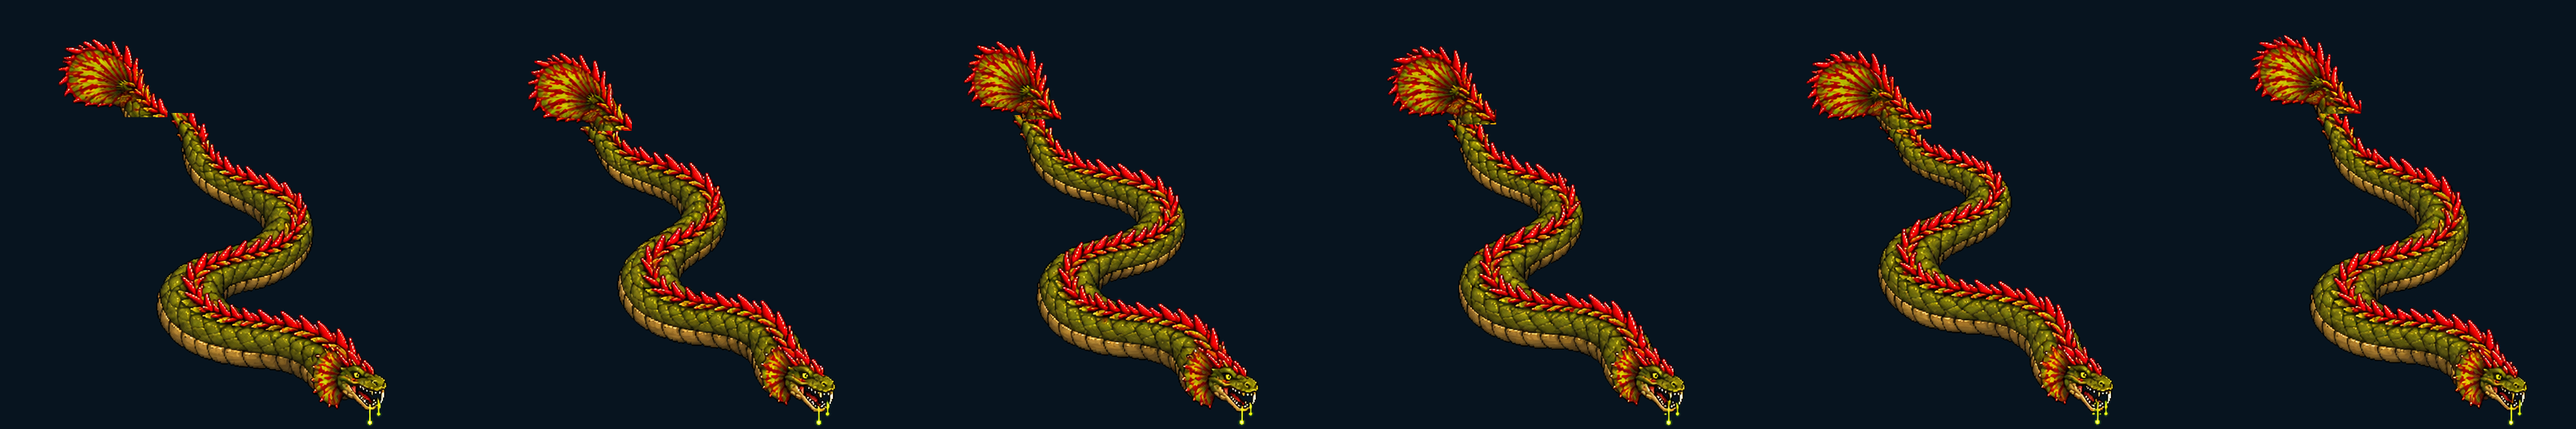
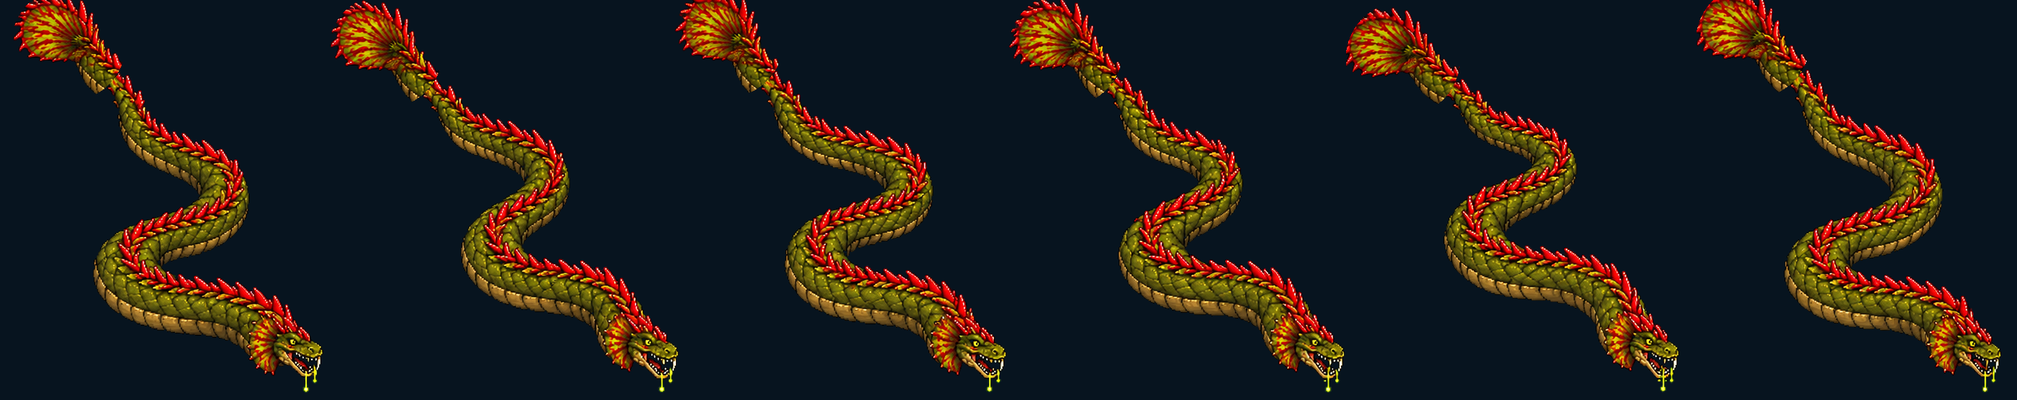
Art: the Hooded Serpent slither composite redone: each tail fan grafted onto the end of its own frame's tail (owner: the first was misplaced)
Claude-Session: https://claude.ai/code/session_01NtmEZhP1uA8k4DLQ7BYfMz

diff --git a/tools/art/compose_hooded_serpent_slither.py b/tools/art/compose_hooded_serpent_slither.py
@@ -1,53 +1,77 @@
-# Builds art/redraws/hooded_serpent_slither_se_composed.png: the coiling slither (hooded_serpent_slither_coil_chatgpt.png) with the tail fan from the other try (hooded_serpent_slither_fan_chatgpt.png) grafted on each frame's tail.
-#   python3 tools/art/compose_hooded_serpent_slither.py [fan_rows 110] [join 30] [out]
+# Builds art/redraws/hooded_serpent_slither_se_composed.png: the coiling slither (hooded_serpent_slither_coil_chatgpt.png,
+# the better body motion) with the TAIL FAN taken from the other try (hooded_serpent_slither_fan_chatgpt.png) and grafted
+# onto the very end of each frame's tail (the owner, 2026-10-29: the first composite placed the fans too far left).
+# Per frame: the fan = the fan frame's pixels within FAN_R of the fan's yellow centre; its joint = where the tail leaves
+# the fan (the body pixels just outside FAN_R); the coil frame's tail tip spike (within CUT of its topmost pixel) is cut
+# off and the fan is placed so its joint lands on the coil tail's end (the body just below the cut).
+#   python3 tools/art/compose_hooded_serpent_slither.py [out.png] [preview.png]
 import sys
 from PIL import Image
 import numpy as np
 from scipy import ndimage
-R='art/redraws/'
+R = 'art/redraws/'
+FAN_R = 80      # px (sheet): the fan's radius round its yellow centre
+CUT = 34        # px: the coil tail's plain tip cut off before the fan goes on
+
+
 def comps(f):
-    im=np.array(Image.open(R+f).convert('RGB')).astype(float)
-    bg=im[5,5]; d=np.sqrt(((im-bg)**2).sum(-1)); m=ndimage.binary_closing(d>40,iterations=2)
-    lab,n=ndimage.label(m); out=[]
-    for i,s in enumerate(ndimage.find_objects(lab)):
-        if (lab[s]==i+1).sum()>3000:
-            mk=(lab==i+1)
-            mk=ndimage.binary_dilation(mk,iterations=2)
-            out.append((s[1].start,s,mk))
-    out.sort(key=lambda t:t[0])
-    return im,bg,out
-fim,fbg,fc=comps('hooded_serpent_slither_fan_chatgpt.png')
-cim,cbg,cc=comps('hooded_serpent_slither_coil_chatgpt.png')
-FAN_H=int(sys.argv[1]) if len(sys.argv)>1 else 110
-JOIN=int(sys.argv[2]) if len(sys.argv)>2 else 30
-W,H=600,600
-sheet=Image.new('RGB',(W*6,H),tuple(int(v) for v in cbg))
+    im = np.array(Image.open(R + f).convert('RGB')).astype(float)
+    bg = im[5, 5]
+    d = np.sqrt(((im - bg) ** 2).sum(-1))
+    m = ndimage.binary_closing(d > 40, iterations=2)
+    lab, n = ndimage.label(m)
+    out = []
+    for i, s in enumerate(ndimage.find_objects(lab)):
+        if (lab[s] == i + 1).sum() > 3000:
+            out.append((s[1].start, ndimage.binary_dilation(lab == i + 1, iterations=1)))
+    out.sort(key=lambda t: t[0])
+    return im, bg, [o[1] for o in out]
+
+
+fim, fbg, fcs = comps('hooded_serpent_slither_fan_chatgpt.png')
+cim, cbg, ccs = comps('hooded_serpent_slither_coil_chatgpt.png')
+H, W = cim.shape[:2]
+yy, xx = np.mgrid[0:H, 0:W]
+CW = 470
+sheet = Image.new('RGB', (CW * 6, 560), tuple(int(v) for v in cbg))
 for i in range(6):
-    # the fan: the fan frame's top FAN_H rows of its own component
-    _,s,mk=fc[i]; y0=s[0].start
-    fan=np.zeros((FAN_H,fim.shape[1],4),np.uint8)
-    reg=mk[y0:y0+FAN_H]
-    sl,sn=ndimage.label(reg)
-    if sn>1:
-        sizes=ndimage.sum(reg,sl,range(1,sn+1)); reg=(sl==(int(np.argmax(sizes))+1))
-    fan[...,:3]=fim[y0:y0+FAN_H].astype(np.uint8); fan[...,3]=reg*255
-    ys,xs=np.nonzero(reg[-JOIN:]); fx=int(np.median(xs))   # where the fan's stalk leaves it (bottom rows)
-    # (only the fan itself: nothing far to the right of the stalk, where the body's own spikes start)
-    reg=reg.copy(); reg[:, fx+45:]=False
-    fan[...,3]=reg*255
-    xa,xb=xs.min(),xs.max()
-    fanimg=Image.fromarray(fan,'RGBA').crop((max(0,fx-200),0,fx+200,FAN_H))
-    # the coil frame, its tail tip: the body's top JOIN rows
-    _,t,cm=cc[i]; ty=t[0].start
-    frame=np.zeros(cim.shape[:2]+(4,),np.uint8); frame[...,:3]=cim.astype(np.uint8); frame[...,3]=cm*255
-    tip=cm[ty+JOIN:ty+JOIN+12]; tys,txs=np.nonzero(tip); tx=int(np.median(txs))
-    frame[:ty+JOIN, :, 3]=np.where(np.abs(np.arange(frame.shape[1])-tx)<60, 0, frame[:ty+JOIN,:,3])   # cut the plain spike
-    x0,x1=t[1].start,t[1].stop
-    fr=Image.fromarray(frame,'RGBA').crop((x0-60,ty-FAN_H,x1+20,t[0].stop+5))
-    out=Image.new('RGBA',(W,H),(0,0,0,0))
-    ox=(W-fr.width)//2+60; out.alpha_composite(fr,(ox,H-fr.height))
-    # place the fan so its stalk meets the cut tail
-    px=ox+(tx-(x0-60))-200; py=H-fr.height+FAN_H+JOIN-FAN_H+6
-    out.alpha_composite(fanimg,(px,py))
-    sheet.paste(out,(i*W,0),out)
-sheet.save(sys.argv[3] if len(sys.argv)>3 else R+'hooded_serpent_slither_se_composed.png')
+    fm, cm = fcs[i], ccs[i]
+    # the fan: its yellow-green membrane's centre in the top part of the fan frame's body
+    ys, xs = np.nonzero(fm)
+    top = ys.min()
+    band = fm & (yy < top + 140)
+    yel = band & (fim[..., 0] > 140) & (fim[..., 1] > 120) & (fim[..., 2] < 90)
+    cy, cx = np.argwhere(yel).mean(0)
+    dist = np.sqrt((yy - cy) ** 2 + (xx - cx) ** 2)
+    fan = fm & (dist <= FAN_R)
+    ring = fm & (dist > FAN_R) & (dist <= FAN_R + 14) & (yy > cy)      # the tail leaving the fan (below its centre)
+    jy, jx = np.argwhere(ring).mean(0)
+    # the coil frame: its tail's topmost pixel, cut the tip, the tail's end just below the cut
+    ys, xs = np.nonzero(cm)
+    ty = ys.min()
+    tx = int(xs[ys == ty].mean())
+    tdist = np.sqrt((yy - ty) ** 2 + (xx - tx) ** 2)
+    body = cm & ~(tdist < CUT)
+    end = cm & (tdist >= CUT) & (tdist < CUT + 12)
+    ey, ex = np.argwhere(end).mean(0)
+    # compose on a canvas: the coil body, then the fan moved so its joint lands on the tail's end
+    P = 160                                  # (padding: a fan may reach past the sheet's edge)
+    can = np.zeros((H + 2 * P, W + 2 * P, 4), np.uint8)
+    can[P:P + H, P:P + W, :3] = cim.astype(np.uint8)
+    can[P:P + H, P:P + W, 3] = body * 255
+    dy, dx = int(round(ey - jy)) + P, int(round(ex - jx)) + P
+    fy, fx = np.nonzero(fan)
+    ny, nx = fy + dy, fx + dx
+    ok = (ny >= 0) & (ny < H + 2 * P) & (nx >= 0) & (nx < W + 2 * P)
+    can[ny[ok], nx[ok], :3] = fim[fy[ok], fx[ok]].astype(np.uint8)
+    can[ny[ok], nx[ok], 3] = 255
+    a = np.argwhere(can[..., 3] > 0)
+    y0, x0 = a.min(0)
+    y1, x1 = a.max(0)
+    piece = Image.fromarray(can[y0:y1 + 1, x0:x1 + 1], 'RGBA')
+    # feet (the head's bottom) on one ground line, each piece centred in its cell
+    sheet.paste(piece, (i * CW + (CW - piece.width) // 2, 560 - 10 - piece.height), piece)
+out = sys.argv[1] if len(sys.argv) > 1 else R + 'hooded_serpent_slither_se_composed.png'
+sheet.save(out)
+if len(sys.argv) > 2:
+    sheet.resize((sheet.width // 2, sheet.height // 2)).save(sys.argv[2])
